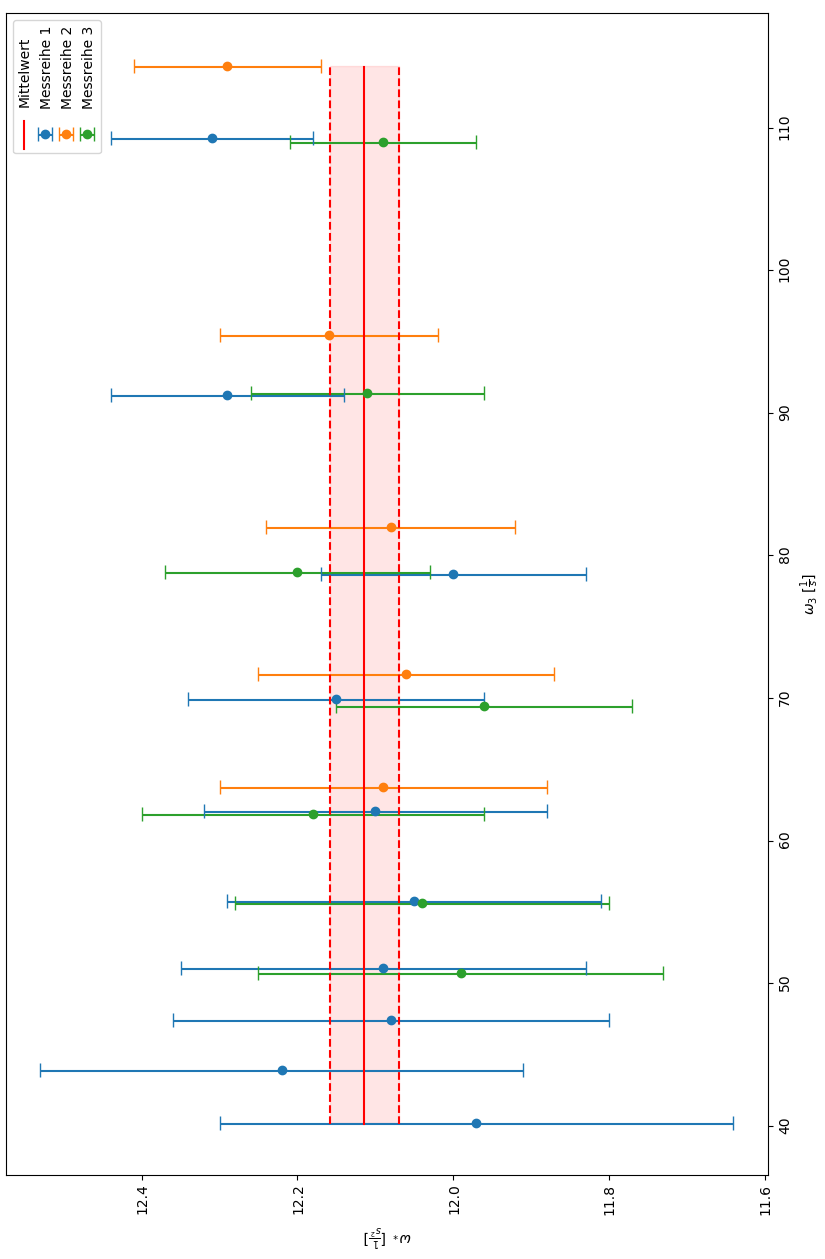
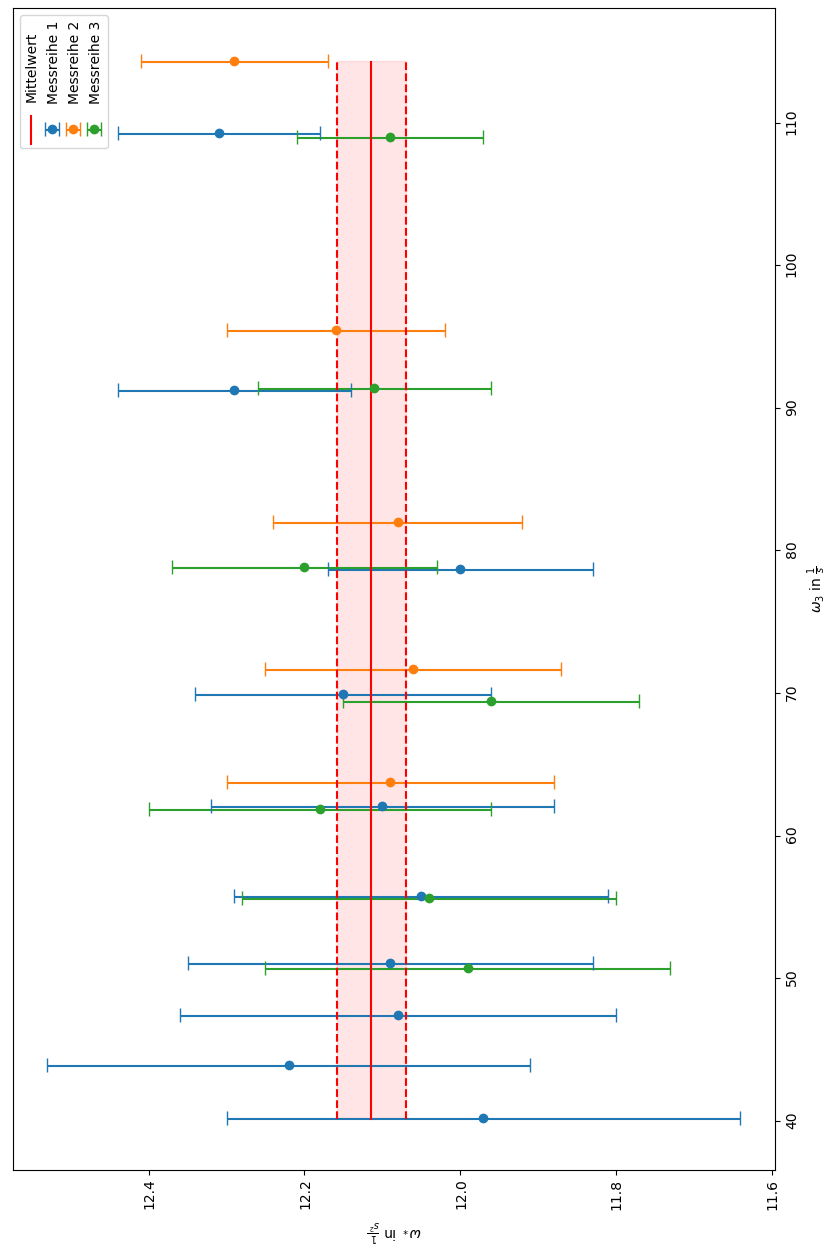
KRE: Fertig

diff --git a/Versuch_KRE/04-Versuchsauswertung/6_2-Auswertung.py b/Versuch_KRE/04-Versuchsauswertung/6_2-Auswertung.py
@@ -14,6 +14,8 @@ spl = make_interp_spline(df['w3 [1/s]'], df['wn/w3'], k=3)  # type: BSpline
 y_smooth = spl(x_new)
 plt.plot(x_new, y_smooth)
 '''
+#print(df.describe())
+
 df['u_f3'] = u_f3 = 0.25
 df['u_tn'] = 0.01/np.sqrt(2)
 df['Tn'] = df['tn']/10
@@ -23,6 +25,8 @@ df['u_w3'] = 2*np.pi*u_f3
 df['wn'] = 2*np.pi/df['Tn']
 df['wN'] = -1/(df['Tn']*df['f3'])
 df['u_wN'] = np.sqrt((u_Tn/((df['Tn']**2)*df['f3']))**2+(u_f3/((df['f3']**2)*df['Tn']))**2)
+
+print(df)
 
 df = df.round({'u_tn':3, 'Tn':3, 'u_Tn':3, 'w3':2, 'u_w3':2,
        'wn':2, 'wN':4, 'u_wN':4})
@@ -35,7 +39,7 @@ x_lin = np.linspace(x.min(), x.max(), 300)
 y_mean = np.repeat(y.mean(),300)   
 y_mean_err = y_err.mean()
 
-print(y.mean(),y_err.mean())
+#print(y.mean(),y_err.mean())
 '''
 fig = plt.figure(figsize=(15,10))
 ax = fig.add_subplot(111)
@@ -45,7 +49,7 @@ ax.plot(x_lin,y_mean-y_mean_err,linestyle='--',color='r')
 ax.fill_between(x_lin,y_mean+y_mean_err,y_mean-y_mean_err,color='r',alpha=0.1)
 ax.errorbar(x, y, yerr=y_err, fmt='o' ,marker='o', capsize=5,label='Messreihe')
 #ax.set_title(r'$\omega_3$-$\omega_*$-Diagramm')
-ax.set_xlabel(r'$\omega_3$ $[\frac{1}{s}]$')
+ax.set_xlabel(r'$\omega_3$ in $\frac{1}{s}$')
 ax.set_ylabel(r'$\omega_N$')
 ax.legend()
 plt.show()

diff --git a/Versuch_KRE/04-Versuchsauswertung/6_3-Auswertung.py b/Versuch_KRE/04-Versuchsauswertung/6_3-Auswertung.py
@@ -21,7 +21,7 @@ y = df['f3_start']
 plt.plot(x, y, 'o')
 
 # Fit
-model = np.polyfit(x,y,1)
+model = np.polyfit(x,y,4)
 predict = np.poly1d(model)
 x_lin = np.linspace(x.min(),x.max(),300)
 y_lin = predict(x_lin)
@@ -84,7 +84,7 @@ for i in df['u_w*']:
     s += i**2
     k += 1   
 y_mean_err = s/k
-
+'''
 fig = plt.figure(figsize=(15,10))
 ax = fig.add_subplot(111)
 ax.errorbar(x1,y1,yerr=y1_err,fmt='o',capsize=5,label='Messreihe 1')
@@ -96,15 +96,15 @@ ax.plot(x_lin,y_mean+y_mean_err,linestyle='--',color='r')
 ax.plot(x_lin,y_mean-y_mean_err,linestyle='--',color='r')
 ax.fill_between(x_lin,y_mean+y_mean_err,y_mean-y_mean_err,color='r',alpha=0.1)
 #ax.set_title(r'$\omega_3$-$\omega_*$-Diagramm')
-ax.set_xlabel(r'$\omega_3$ $[\frac{1}{s}]$')
-ax.set_ylabel(r'$\omega_*$ $[\frac{1}{s^2}]$')
+ax.set_xlabel(r'$\omega_3$ in $\frac{1}{s}$')
+ax.set_ylabel(r'$\omega_*$ in $\frac{1}{s^2}$')
 ax.legend()
 plt.show()
-
 '''
+print(df)
+
 plt.hist(df['w*'])
 #plt.title(r'$\omega_*$-Histogramm')
 plt.ylabel('Anzahl Messwerte')
-plt.xlabel(r'$\omega_*$ $[\frac{1}{s^2}]$')
+plt.xlabel(r'$\omega_*$ in $\frac{1}{s^2}$')
 plt.show()
-'''
